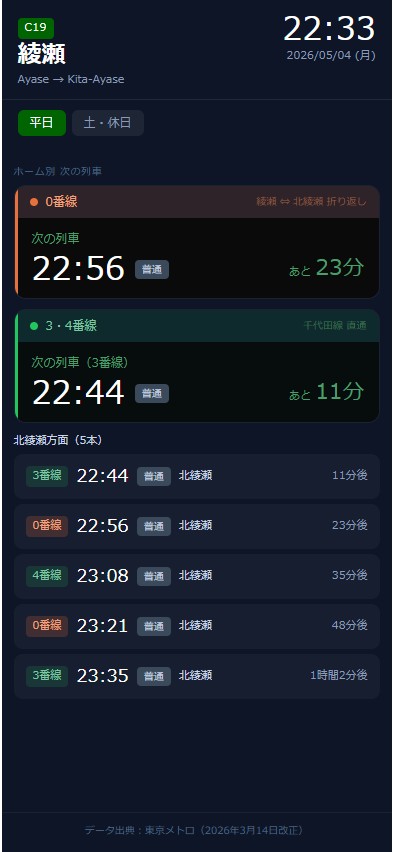
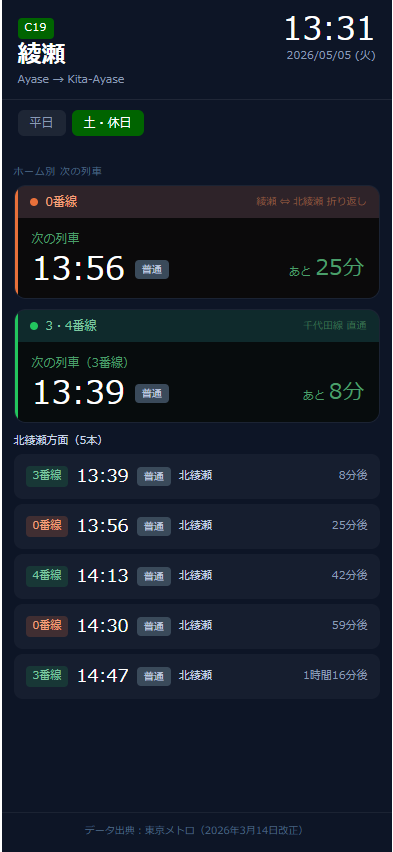
docs: 設計書を現状実装に合わせて更新

diff --git a/docs/design.md b/docs/design.md
@@ -27,9 +27,9 @@
 
 ### 画面イメージ
 
-| 平日 | 土・休日 |
-|:---:|:---:|
-| ![平日](./images/screenshot-main.png) | ![土・休日](./images/screenshot-holiday.png) |
+| メイン画面 |
+|:---:|
+| ![メイン画面](./images/screenshot-main.png) |
 
 ---
 
@@ -67,7 +67,9 @@
 | 駅名「綾瀬」 | color `#fff`・font-size 24px・font-weight 700 |
 | ローマ字「Ayase → Kita-Ayase」 | color `#8a9bb5`・font-size 11px・margin-top 2px |
 | 現在時刻 | color `#fff`・font-size 32px・font-weight 300（秒なし・1分ごと更新） |
-| 日付 | color `#8a9bb5`・font-size 11px・右寄せ・形式：YYYY/MM/DD (曜) |
+| 日付（通常時） | color `#8a9bb5`・font-size 11px・右寄せ・形式：YYYY/MM/DD (曜) |
+| 日付（終電後・5時以降） | 「YYYY/MM/DD (曜) → 翌 MM/DD (曜)」形式で翌日を表示 |
+| 日付（深夜・5時未満） | 「YYYY/MM/DD (曜)」のみ（翌日表示なし） |
 
 ---
 
@@ -187,23 +189,35 @@
 **入力**
 
 ```typescript
-trains: Train[]
-now: { hour: number, minute: number }
+timetable: Timetable   // 平日・土休日の全データ
+dayType: DayType       // 当日のダイヤ区分
+now: Date
 ```
 
 **処理**
 
 ```
-1. 現在時刻より後の列車を抽出
-2. platform === 0 の次の列車を取得
-3. platform === 3 | 4 の次の列車を取得
-4. 上位5本のリストを生成
+1. 現在時刻より後の列車を抽出（当日ダイヤ）
+2. 結果が1本以上 → 通常表示（isNextDay: false）
+   - platform === 0 の次の列車を取得
+   - platform === 3 | 4 の次の列車を取得
+   - 上位5本のリストを生成
+3. 結果が0本（終電後）→ 翌日ダイヤに自動切替（isNextDay: true）
+   - getServiceDay(now) でサービス日を取得（0〜4時台は前日扱い）
+   - getNextDayType(serviceDay) で翌日ダイヤ区分を決定
+   - 翌日ダイヤの全列車から nextP0・nextP34・upcomingList を生成
 ```
 
 **出力**
 
 ```typescript
-{ nextP0: Train | null, nextP34: Train | null, upcomingList: Train[] }
+{
+  nextP0: Train | null
+  nextP34: Train | null
+  upcomingList: Train[]
+  isNextDay: boolean    // 終電後で翌日ダイヤを表示中
+  nextDayType: DayType  // 使用中のダイヤ区分（終電後は翌日のもの）
+}
 ```
 
 ---
@@ -310,7 +324,8 @@ ayase-kitaayase-timetable/
 │   │   ├── setup.ts               # テストセットアップ
 │   │   ├── formatTime.test.ts     # 時刻フォーマットテスト
 │   │   ├── useDayType.test.ts     # ダイヤ区分判定テスト
-│   │   └── useTrains.test.ts      # 列車フィルタリングテスト
+│   │   ├── useTrains.test.ts      # 列車フィルタリング・翌日切替テスト
+│   │   └── Header.test.tsx        # ヘッダー日付表示テスト
 │   ├── App.tsx
 │   ├── index.css
 │   └── main.tsx
@@ -391,9 +406,10 @@ git push
 
 | # | 内容 | 優先度 | 状態 |
 |---|---|---|---|
-| 1 | ユニットテスト未実装 | 🔴 | 対応予定 |
-| 2 | 終電後の翌日ダイヤ切替 | 🟡 | 未対応 |
-| 3 | オフライン対応 | ⚪ | 将来対応 |
+| 1 | ユニットテスト | 🟢 | 実装済み（38件・4ファイル） |
+| 2 | 終電後の翌日ダイヤ切替 | 🟢 | 実装済み（isNextDay フラグ・ヘッダー日付表示対応） |
+| 3 | 終電が近いとき翌日列車で5本に補完 | 🟡 | 未対応（残り列車が5本未満でも当日分のみ表示） |
+| 4 | オフライン対応 | ⚪ | 将来対応 |
 
 ---
 
@@ -403,3 +419,5 @@ git push
 |---|---|---|
 | 2026-05-04 | 1.0 | 初版作成（実装・デプロイ完了後） |
 | 2026-05-04 | 1.1 | ダイヤバッジを切替ボタン→表示バッジのみに変更・ユニットテスト追加 |
+| 2026-05-04 | 1.2 | 終電後の翌日ダイヤ自動切替・ヘッダー翌日日付表示を実装 |
+| 2026-05-05 | 1.3 | 設計書を現状実装に合わせて更新（画面イメージ・機能仕様・ファイル構成） |
